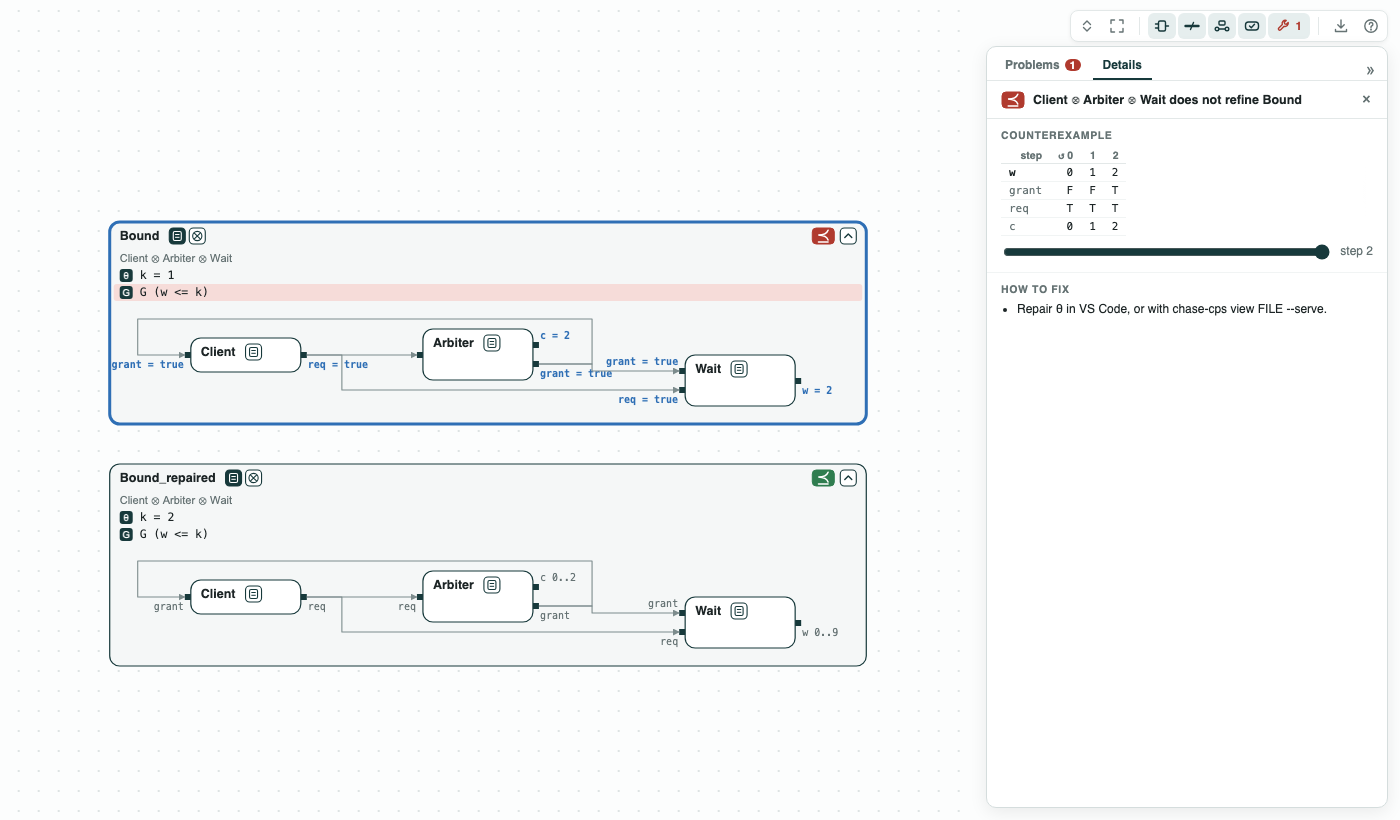
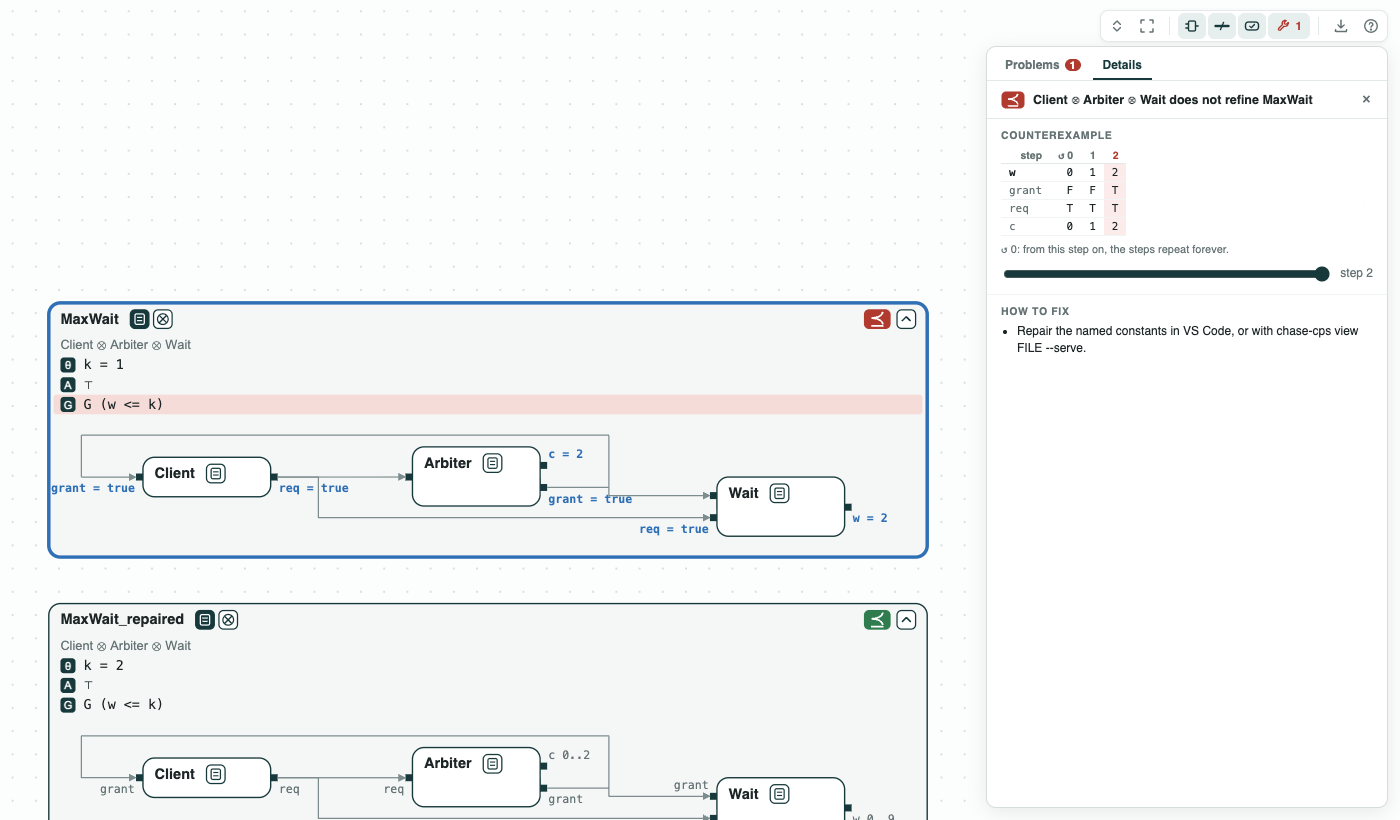
Demo pages with the new names of the contracts (PedalDeadline, CameraDelay, Pipeline, ChargingStation, Pullup, PullupTimed, Drone, MaxWait, SafeMission), and their pictures taken again

diff --git a/handbook/docs/demos/lm-fsm.md b/handbook/docs/demos/lm-fsm.md
@@ -18,8 +18,8 @@ corrected, does the pullup come when its requirement says?
   system requirement: the counterexample has three steps.
 - They refine FSM-001t, its timed version.
 
-[![The first requirements, unrealizable; the corrected ones inside System (red) and SystemTimed (green)](../assets/demos/lm-fsm/overview-all-checks.png)](../assets/demos/lm-fsm/overview-all-checks.png)
-_The first requirements (R red), and the corrected ones inside System (⪯ red) and SystemTimed (⪯ green)._
+[![The first requirements, unrealizable; the corrected ones inside Pullup (red) and PullupTimed (green)](../assets/demos/lm-fsm/overview-all-checks.png)](../assets/demos/lm-fsm/overview-all-checks.png)
+_The first requirements (R red), and the corrected ones inside Pullup (⪯ red) and PullupTimed (⪯ green)._
 
 The requirements come from the Ten Lockheed Martin Cyber-Physical
 Challenges (Mavridou et al., RE 2020), first and corrected, as in the FRET
@@ -42,22 +42,22 @@ _Step 1: the first requirements; the cores in red._
 
 **Step 2. The system.** The corrected _Autopilot_ and _Sensor_ are
 realizable; composed with discharge, they leave no assumption. They do not
-refine _System_ (FSM-001: a pullup when the limits are exceeded, with the
+refine _Pullup_ (FSM-001: a pullup when the limits are exceeded, with the
 pilot not in control, the system supported, and no failure). At step 1 of
 the counterexample the limits are exceeded, but the autopilot is still in
 NOMINAL: no pullup.
 
-[![Step 2: the counterexample, in the panel and on the wires](../assets/demos/lm-fsm/step2-does-not-refine-system.png)](../assets/demos/lm-fsm/step2-does-not-refine-system.png)
-_Step 2: the composition does not refine System; the values at step 1._
+[![Step 2: the counterexample, in the panel and on the wires](../assets/demos/lm-fsm/step2-does-not-refine-pullup.png)](../assets/demos/lm-fsm/step2-does-not-refine-pullup.png)
+_Step 2: the composition does not refine Pullup; the values at step 1._
 
 **Step 3. The system, with time.** The sensor and the autopilot each take a
-step to react, and the autopilot must first reach NOMINAL. _SystemTimed_
+step to react, and the autopilot must first reach NOMINAL. _PullupTimed_
 (FSM-001t) gives the pullup that time: after three steps within the limits
 and one beyond, with the pilot not in control and no failure, the pullup
 comes at the fifth step. The composition refines it.
 
-[![Step 3: Autopilot and Sensor inside SystemTimed; the refinement holds](../assets/demos/lm-fsm/step3-refines-systemtimed.png)](../assets/demos/lm-fsm/step3-refines-systemtimed.png)
-_Step 3: the composition refines SystemTimed._
+[![Step 3: Autopilot and Sensor inside PullupTimed; the refinement holds](../assets/demos/lm-fsm/step3-refines-pulluptimed.png)](../assets/demos/lm-fsm/step3-refines-pulluptimed.png)
+_Step 3: the composition refines PullupTimed._
 
 ## Run it
 

diff --git a/handbook/docs/demos/charger.md b/handbook/docs/demos/charger.md
@@ -13,14 +13,14 @@ which, and which arbiter works with the robots?
 - Refinement does not see the conflict, realizability does: _Greedy_ is
   unrealizable, with 3 of its 5 guarantees in the unrealizable core (the
   smallest set of requirements in conflict), yet with the robots it refines
-  _System_.
+  _ChargingStation_.
 - _Pushy_ is not well separated, and _Trusting_ is vacuous: each wins for
   a bad reason.
 - _Fair_ is realizable, with a controller of 18 states. With the robots, it
-  refines _System_ with no assumption left.
+  refines _ChargingStation_ with no assumption left.
 
-[![The five arbiters, and Fair with the robots inside System](../assets/demos/charger/overview-all-checks.png)](../assets/demos/charger/overview-all-checks.png)
-_The five arbiters, and Fair with the robots inside System._
+[![The five arbiters, and Fair with the robots inside ChargingStation](../assets/demos/charger/overview-all-checks.png)](../assets/demos/charger/overview-all-checks.png)
+_The five arbiters, and Fair with the robots inside ChargingStation._
 
 Each robot asks for the station (`req`) when its battery is low, and
 assumes that it gets it (`grant`), or stops asking, infinitely often.
@@ -31,7 +31,8 @@ Every arbiter guarantees that the station never goes to both robots
 
 **Step 1. Greedy: unrealizable.** _Greedy_ grants each request at the next
 step (R6.1, R6.2). When both robots ask at once, it cannot serve both: the
-core is R5, R6.1, and R6.2. Yet _Greedy_ with the robots refines _System_.
+core is R5, R6.1, and R6.2. Yet _Greedy_ with the robots refines
+_ChargingStation_.
 
 [![Step 1: Greedy, unrealizable, with its core in red](../assets/demos/charger/step1-greedy-unrealizable.png)](../assets/demos/charger/step1-greedy-unrealizable.png)
 _Step 1: the core of Greedy in red._
@@ -64,10 +65,10 @@ _Step 4: Trusting is vacuous (¬V red)._
 
 **Step 5. The arbiter with the robots.** _Fair_ (without R8) and the robots
 feed each other. Composed with discharge, they leave no assumption, and
-refine _System_.
+refine _ChargingStation_.
 
-[![Step 5: Fair, Robot1, and Robot2 inside System](../assets/demos/charger/step5-arbiter-and-robots.png)](../assets/demos/charger/step5-arbiter-and-robots.png)
-_Step 5: the composition refines System._
+[![Step 5: Fair, Robot1, and Robot2 inside ChargingStation](../assets/demos/charger/step5-arbiter-and-robots.png)](../assets/demos/charger/step5-arbiter-and-robots.png)
+_Step 5: the composition refines ChargingStation._
 
 ## Run it
 

diff --git a/handbook/docs/demos/buffer-swap.md b/handbook/docs/demos/buffer-swap.md
@@ -29,11 +29,11 @@ contracts are written in SystemVerilog Assertions.
 ## The steps
 
 **Step 1. The old system.** _Producer_, _TwoFifo_, and _Consumer_,
-composed, refine _System_, and the RTL of `bsg_two_fifo` implements
+composed, refine _Pipeline_, and the RTL of `bsg_two_fifo` implements
 _TwoFifo_.
 
-[![Step 1: Producer, TwoFifo, and Consumer refine System; TwoFifo M ⊨ C green](../assets/demos/buffer-swap/step1-old-system.png)](../assets/demos/buffer-swap/step1-old-system.png)
-_Step 1: the old system refines System; the RTL implements TwoFifo._
+[![Step 1: Producer, TwoFifo, and Consumer refine Pipeline; TwoFifo M ⊨ C green](../assets/demos/buffer-swap/step1-old-system.png)](../assets/demos/buffer-swap/step1-old-system.png)
+_Step 1: the old system refines Pipeline; the RTL implements TwoFifo._
 
 **Step 2. The new buffer against the old one.** _OneFifo_ does not refine
 _TwoFifo_. In the counterexample of 4 steps, the empty buffer takes a
@@ -43,11 +43,11 @@ that it is.
 [![Step 2: OneFifo does not refine TwoFifo; the counterexample in the panel, the broken guarantee in red](../assets/demos/buffer-swap/step2-onefifo-counterexample.png)](../assets/demos/buffer-swap/step2-onefifo-counterexample.png)
 _Step 2: OneFifo does not refine TwoFifo; the guarantee it breaks in red._
 
-**Step 3. What the place needs.** The quotient Slot = System / (Producer
+**Step 3. What the place needs.** The quotient Slot = Pipeline / (Producer
 ⊗ Consumer), the dashed box, has 3 assumptions and 3 guarantees. _Slot_
 may assume what the consumer guarantees, that an offer is taken sooner or
 later, so one entry is enough: _OneFifo_ refines _Slot_, and the system
-with _OneFifo_ refines _System_.
+with _OneFifo_ refines _Pipeline_.
 
 [![Step 3: Slot, the quotient, with OneFifo inside; the tag ⪯ green](../assets/demos/buffer-swap/step3-slot.png)](../assets/demos/buffer-swap/step3-slot.png)
 _Step 3: OneFifo refines Slot, the contract of the place._

diff --git a/handbook/docs/demos/braking.md b/handbook/docs/demos/braking.md
@@ -24,17 +24,18 @@ This is the braking system of ContrACT (Xiao, Lutz, Castillo-Effen,
 Nuzzo, MEMOCODE 2026). On the camera path, the network `Link` schedules
 Brake 2 `kappa` (10 ms) after the detection. Brake 1 and Brake 2 are
 reactions of the same reactor: when Brake 2 waits for late data, Brake 1
-waits too, up to 1 ms. The requirement _SysB_ bounds the start of Brake 1
-by `lam_b`; _DelayF_ bounds the wait of Brake 2 by `y_f`. A repair is the
-least change of a named constant that makes a check pass.
+waits too, up to 1 ms. The requirement _PedalDeadline_ bounds the start
+of Brake 1 by `lam_b`; _CameraDelay_ bounds the wait of Brake 2 by `y_f`.
+A repair is the least change of a named constant that makes a check pass.
 
 ## The steps
 
 **Step 1. The bound is violated.** The pedal path does not refine
-_SysB_. The pedal event is released 1 ms late, the pedal takes 0.05 ms
-and the processing 3 ms: Brake 1 starts 4.05 ms after its timestamp.
+_PedalDeadline_. The pedal event is released 1 ms late, the pedal takes
+0.05 ms and the processing 3 ms: Brake 1 starts 4.05 ms after its
+timestamp.
 
-[![The counterexample, the guarantee of SysB in red](../assets/demos/braking/pedal-path-counterexample.png)](../assets/demos/braking/pedal-path-counterexample.png)
+[![The counterexample, the guarantee of PedalDeadline in red](../assets/demos/braking/pedal-path-counterexample.png)](../assets/demos/braking/pedal-path-counterexample.png)
 _Step 1: the counterexample on the ports of the pedal path._
 
 **Step 2. Repair the bound.** `repair` gives `lam_b = 4.05`, optimal, a

diff --git a/handbook/docs/demos/deadline.md b/handbook/docs/demos/deadline.md
@@ -21,18 +21,18 @@ _Before the repair (k = 1, ⪯ red) and after it (k = 2, green)._
 
 The contracts are in `deadline.ltl`. _Client_ keeps asking (`req`) until
 it is granted. _Arbiter_ counts `c` = 0, 1, 2, 0, ... and grants when
-`c = 2`. _Wait_ counts in `w` the steps a request has waited. _Bound_ is
+`c = 2`. _Wait_ counts in `w` the steps a request has waited. _MaxWait_ is
 the requirement `G (w <= k)`, with the named constant `k` at 1. The
 formulas are LTL over an infinite run, so nuXmv checks them.
 
 ## The steps
 
 **Step 1. The bound is too small.** _Client_, _Arbiter_, and _Wait_
-composed do not refine _Bound_. In the counterexample, a request at
+composed do not refine _MaxWait_. In the counterexample, a request at
 `c = 0` is granted at `c = 2`: it waits 2 steps (`w = 2`), and the run
 goes back to step 0.
 
-[![The panel of the check of Bound: the counterexample, w = 0, 1, 2 while c = 0, 1, 2, step 2 on the ports; the guarantee G (w <= k) in red](../assets/demos/deadline/wait-counterexample.png)](../assets/demos/deadline/wait-counterexample.png)
+[![The panel of the check of MaxWait: the counterexample, w = 0, 1, 2 while c = 0, 1, 2, step 2 on the ports; the guarantee G (w <= k) in red](../assets/demos/deadline/wait-counterexample.png)](../assets/demos/deadline/wait-counterexample.png)
 _Step 1: w reaches 2 at step 2, when the grant comes._
 
 **Step 2. Repair the bound.** `repair` finds `k = 2`. Each round

diff --git a/handbook/docs/demos/drone-altitude.md b/handbook/docs/demos/drone-altitude.md
@@ -21,7 +21,7 @@ _The drone inside Hover in a wind of 1 (red), and with eps = 2.5 (green)._
 
 The drone is part of the fire-suppression mission of ContrACT (Xiao, Lutz,
 Castillo-Effen, Nuzzo, MEMOCODE 2026). `altitude.ltl` has its contracts
-in signal temporal logic in discrete time, so z3 checks them. _Plant_
+in signal temporal logic in discrete time, so z3 checks them. _Drone_
 starts on the ground and moves by `v + w` each step. _Climb_ sets `v` to
 half the error to `r` (20 m), at most `vmax`. _Hover_ asks, in a wind
 `w` of at most `wmax`, for 5 steps within `eps` of `r` (18 to 22 m),
@@ -29,7 +29,7 @@ starting at one of the first 10 steps.
 
 ## The steps
 
-**Step 1. The wind of the fire.** _Plant_ and _Climb_ composed refine
+**Step 1. The wind of the fire.** _Drone_ and _Climb_ composed refine
 _Hover_ in a wind of 0.5, not of 1. The worst case of _Hover_ (its
 robustness: the margin by which it holds) is 0.75 m in a wind of 0.5. In
 a wind of 1 it is -0.5 m: with the wind always down, the drone is at

diff --git a/handbook/docs/demos/warehouse-robot.md b/handbook/docs/demos/warehouse-robot.md
@@ -38,7 +38,7 @@ perception composed with localization.
 
 ## The steps
 
-**Step 1. The contract of the controller.** Q = System / (Perception ⊗
+**Step 1. The contract of the controller.** Q = SafeMission / (Perception ⊗
 Localization), drawn as a dashed box, guarantees the requirements of the
 system (`c_true >= 0.4`, and a rest at the dock) and what perception
 assumes: `|w| <= 0.8`.
